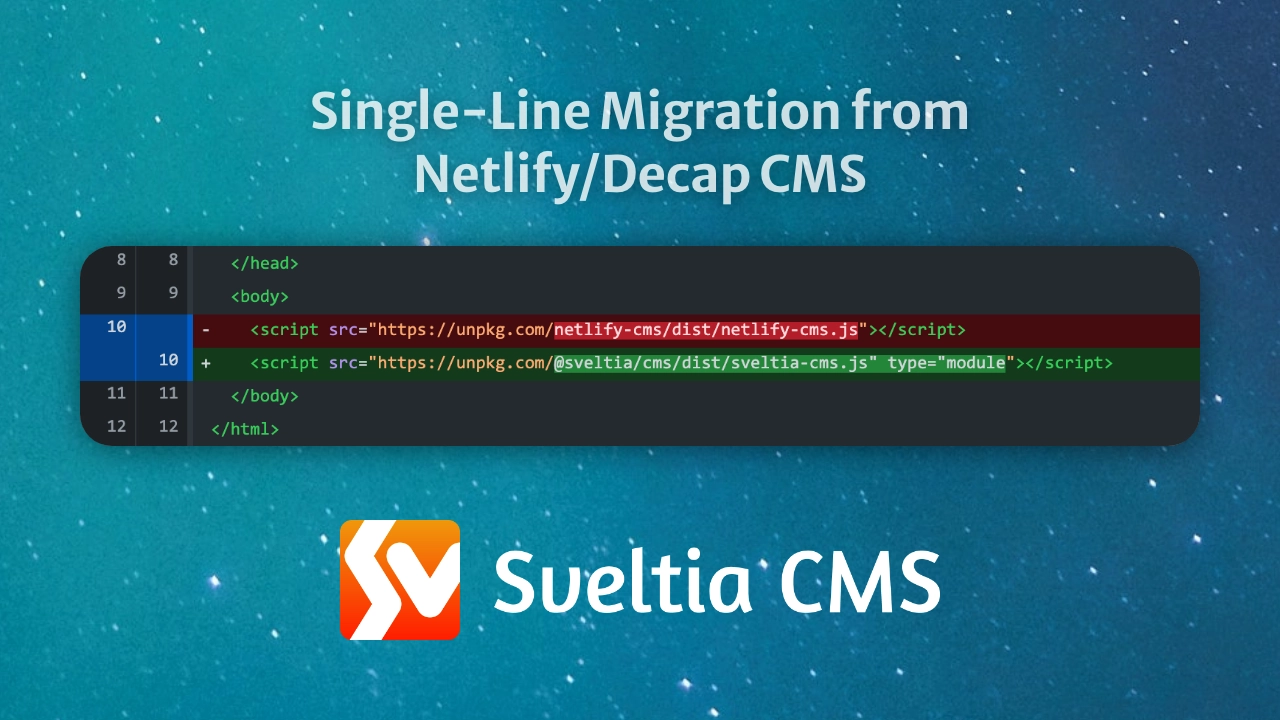
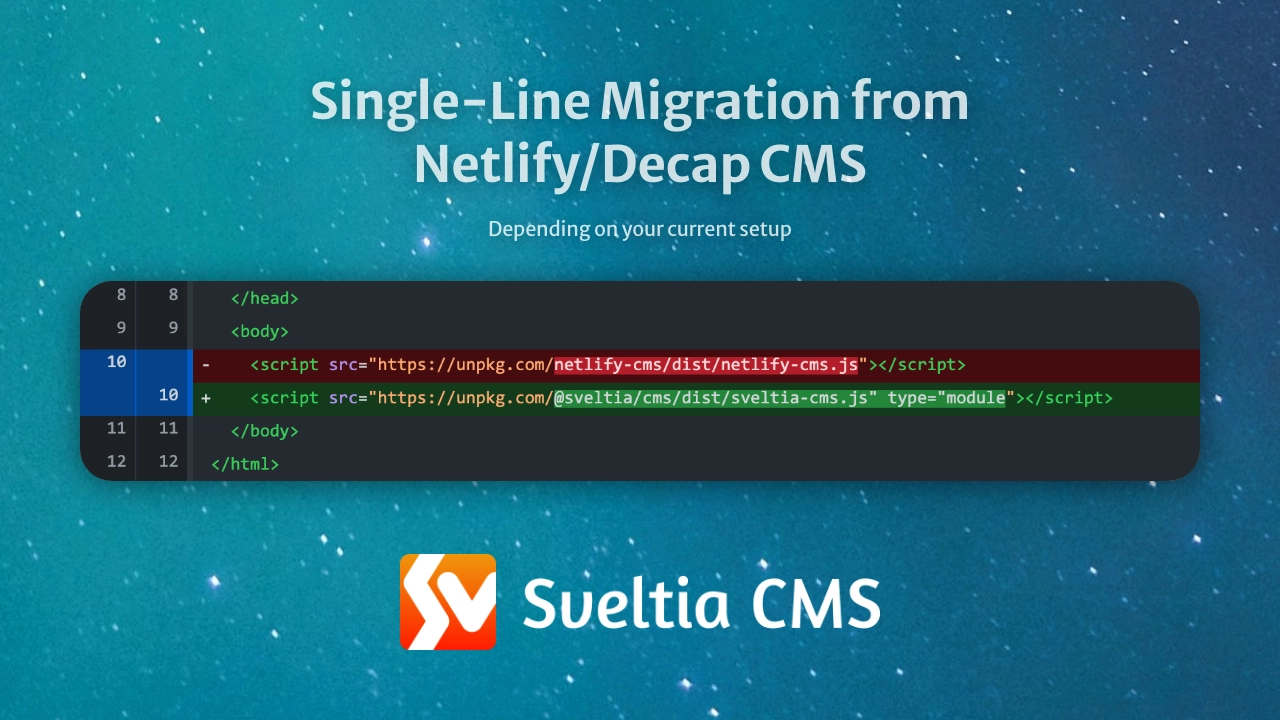
Make migration requirements clearer

Changed region(s): [[0.0625, 0.3056, 0.9375, 0.9167], [0.2188, 0.0917, 0.75, 0.275]]

diff --git a/README.md b/README.md
@@ -1,6 +1,6 @@
 # Sveltia CMS
 
-Sveltia CMS is a Git-based lightweight headless CMS under active development as a drop-in replacement for [Netlify/Decap CMS](https://decapcms.org/). You can use it with your favourite static site generator like SvelteKit, Eleventy, Next.js and Hugo to manage content as static files in a Git repository. The open source alternative to Netlify/Decap CMS is now in public beta — with more features to come.
+Sveltia CMS is a Git-based lightweight headless CMS under active development as a quick replacement for [Netlify/Decap CMS](https://decapcms.org/). You can use it with your favourite static site generator like SvelteKit, Eleventy, Next.js and Hugo to manage content as static files in a Git repository. The open source alternative to Netlify/Decap CMS is now in public beta — with more features to come.
 
 ![Screenshot: Git-based Headless CMS with Dark Mode](docs/screenshot-20231120-1.webp)<br>
 
@@ -10,7 +10,7 @@ Sveltia CMS is a Git-based lightweight headless CMS under active development as 
 
 ![Screenshot: All-New Asset Library; Full Internationalization Support](docs/screenshot-20231120-4.webp)<br>
 
-![Screenshot: Single-Line Migration from Netlify/Decap CMS](docs/screenshot-20231120-5.webp)<br>
+![Screenshot: Single-Line Migration from Netlify/Decap CMS (depending on your current setup)](docs/screenshot-20231120-5.webp)<br>
 
 ## Motivation
 
@@ -28,7 +28,7 @@ Here are some highlights mainly compared to Netlify/Decap CMS:
 
 - Ready to replace Netlify/Decap CMS _in some casual use case scenarios_ by updating a single line of code.
 - Existing [configuration files](https://decapcms.org/docs/configuration-options/) can be reused as is.
-- Various features are still missing though — [see the compatibility chart below](#compatibility) for details.
+- Various features are still missing though — see the [compatibility chart](#compatibility) below to see if you can migrate.
 
 ### Better UX
 
@@ -99,7 +99,7 @@ While it’s not our goal to recreate all the features found in Netlify/Decap CM
 | --- | --- |
 | Installation | Installing with npm is not supported yet. |
 | UI locales | Only English and Japanese are available at this time. No registration is needed. While the UI locale is automatically selected depending on the browser’s language settings, it can be changed in Settings. (Click on the Account button in the top right corner of the CMS.) |
-| Account | Only the [GitHub backend](https://decapcms.org/docs/github-backend/) is available at this time. You can keep using Netlify or a [3rd party OAuth client](https://decapcms.org/docs/external-oauth-clients/) (or [our own](https://github.com/sveltia/sveltia-cms-auth)) to sign in with GitHub, just like Netlify/Decap CMS. The GitLab backend is coming soon. We plan to add the Test backend as well for our demo site, but Azure and Bitbucket are unlikely to be supported, mainly due to the lack of an API method to fetch content in bulk. Later we may implement a performant Git Gateway alternative using GraphQL. |
+| Account | Only the [GitHub backend](https://decapcms.org/docs/github-backend/) is available at this time. You can keep using Netlify or a [3rd party OAuth client](https://decapcms.org/docs/external-oauth-clients/) (or [our own](https://github.com/sveltia/sveltia-cms-auth)) to sign in with GitHub, just like Netlify/Decap CMS. The GitLab backend is coming soon. We plan to add the Test backend as well for our demo site, but Azure, Bitbucket and Git Gateway will probably not be supported, mainly due to the lack of a method to fetch content in bulk. We have not looked into the relatively new Gitea backend yet. Later we may implement a performant Git Gateway alternative using GraphQL. |
 | Configuration | Supported. |
 | Media | External media storage services are not supported yet. |
 | Editorial Workflow | Not supported yet. |
@@ -179,7 +179,7 @@ Here are some starter kits for popular frameworks created by community members. 
 
 ### Migration
 
-If you’re already using Netlify/Decap CMS with the GitHub backend and don’t have any custom widget, custom preview or plugin, migrating to Sveltia CMS is super easy. Edit `/admin/index.html` to replace the CMS `script` tag, and push the change to your repository:
+Have a look at the [compatibility chart](#compatibility) above first. If you’re already using Netlify/Decap CMS with the GitHub backend and don’t have any custom widget, custom preview or plugin, migrating to Sveltia CMS is super easy. Edit `/admin/index.html` to replace the CMS `script` tag, and push the change to your repository:
 
 ```diff
 -<script src="https://unpkg.com/netlify-cms@^2.0.0/dist/netlify-cms.js"></script>
